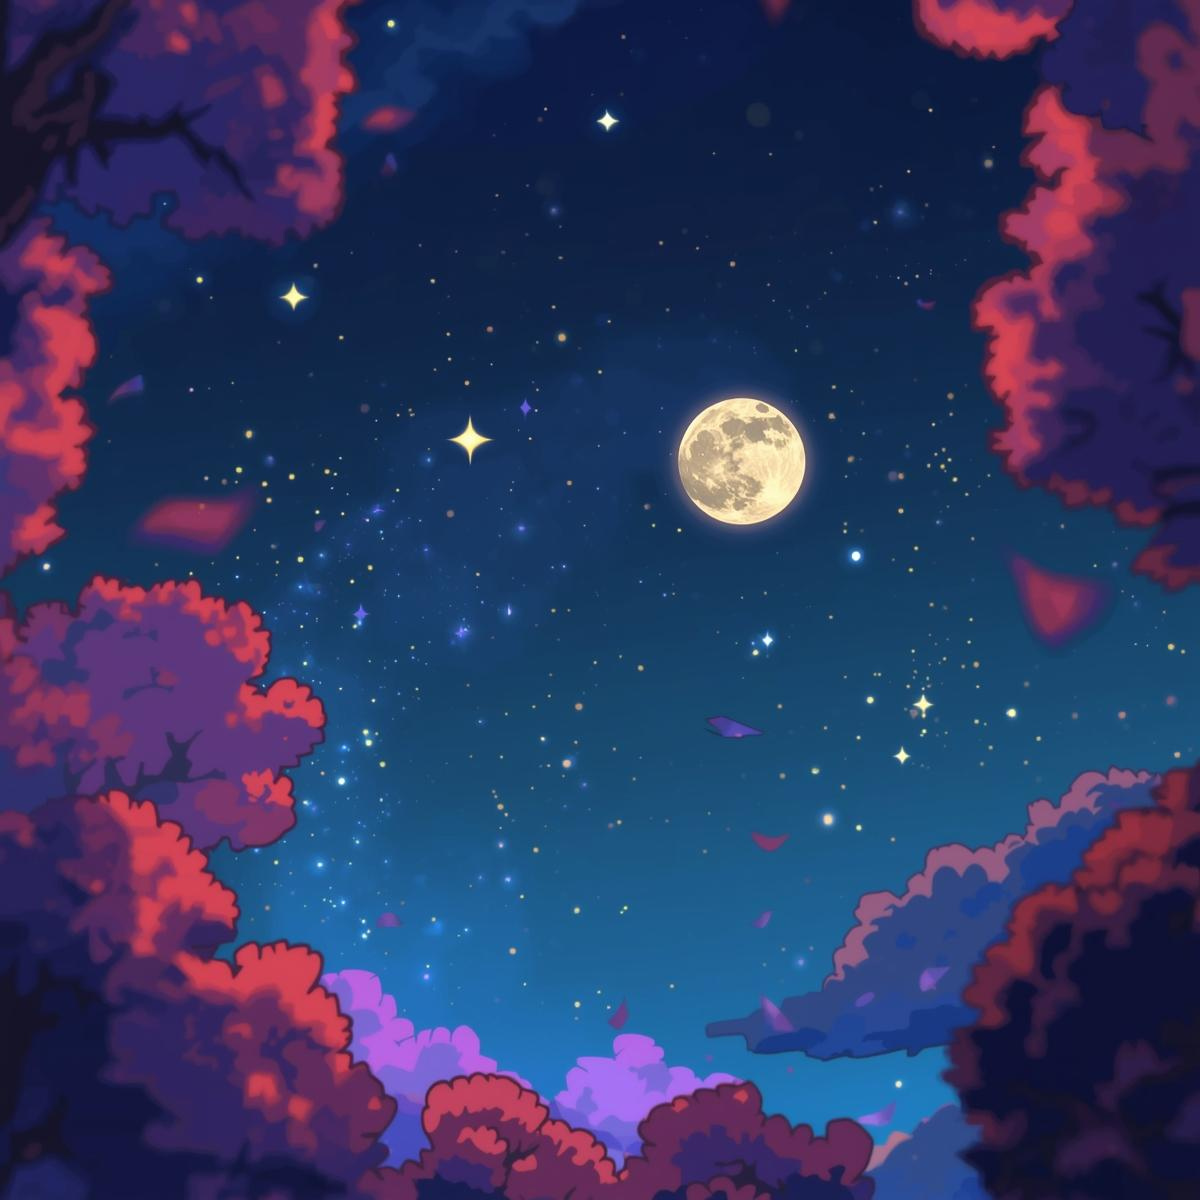
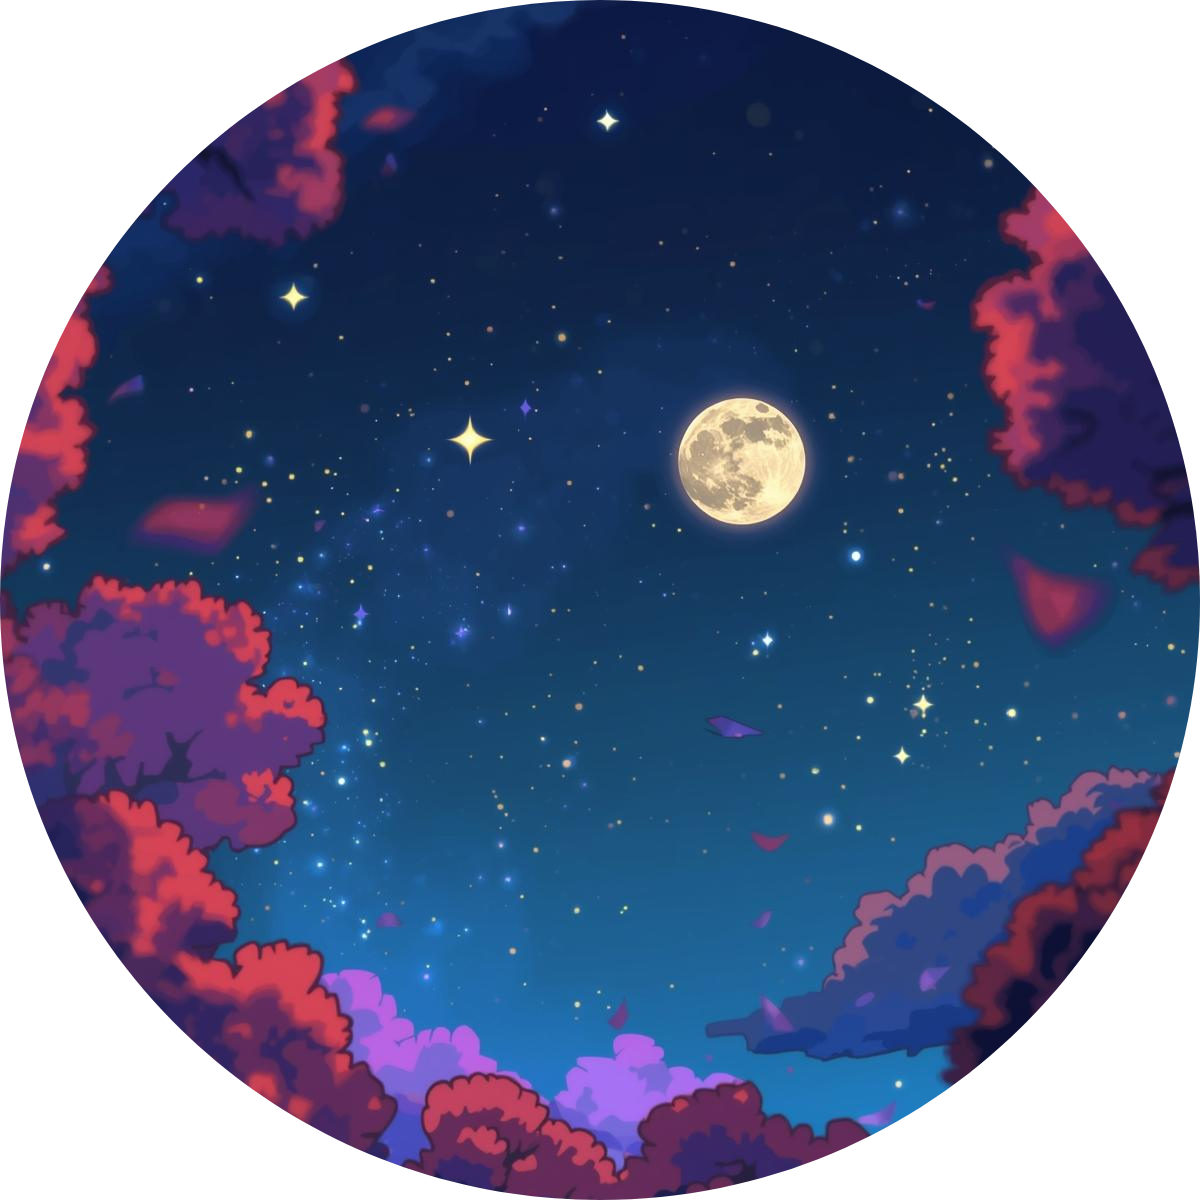
asama2_sıralamasoruları bitti

diff --git a/lib/SIRALAMA_SORULARI/Asama2/soru5.dart b/lib/SIRALAMA_SORULARI/Asama2/soru5.dart
@@ -2,26 +2,25 @@ import 'package:flutter/material.dart';
 import 'package:provider/provider.dart';
 import 'package:shared_preferences/shared_preferences.dart';
 import '../../providers/language_provider.dart';
-import 'soru2.dart';
 import 'package:dixlearning/screens/sorting_roadmap_screen.dart';
 
-class Asama2Soru1 extends StatefulWidget {
-  const Asama2Soru1({super.key});
+class Asama2Soru5 extends StatefulWidget {
+  const Asama2Soru5({super.key});
 
   @override
-  State<Asama2Soru1> createState() => _Asama2Soru1State();
+  State<Asama2Soru5> createState() => _Asama2Soru5State();
 }
 
-class _TimeStage {
+class _WindStage {
   final String label;
   final String assetPath;
-  _TimeStage(this.label, this.assetPath);
+  _WindStage(this.label, this.assetPath);
 }
 
-class _Asama2Soru1State extends State<Asama2Soru1>
+class _Asama2Soru5State extends State<Asama2Soru5>
     with TickerProviderStateMixin {
-  late List<_TimeStage> stages;
-  late List<_TimeStage> dragSources;
+  late List<_WindStage> stages;
+  late List<_WindStage> dragSources;
   bool showFeedback = false;
   bool isCorrect = false;
   late AnimationController _feedbackController;
@@ -30,15 +29,15 @@ class _Asama2Soru1State extends State<Asama2Soru1>
   void initState() {
     super.initState();
     stages = [
-      _TimeStage(
-        'Sabah',
-        'assets/SIRALAMA_RESIMLERI/Asama2/soru1/gun_dogumu.png',
+      _WindStage('Rüzgar', 'assets/SIRALAMA_RESIMLERI/Asama2/soru5/rüzgar.png'),
+      _WindStage(
+        'Uçan Şapka',
+        'assets/SIRALAMA_RESIMLERI/Asama2/soru5/ucan_sapka.png',
       ),
-      _TimeStage(
-        'Öğle',
-        'assets/SIRALAMA_RESIMLERI/Asama2/soru1/gunes_tepede.png',
+      _WindStage(
+        'Şapkayı Yakalama',
+        'assets/SIRALAMA_RESIMLERI/Asama2/soru5/sapka_yakalama.png',
       ),
-      _TimeStage('Akşam', 'assets/SIRALAMA_RESIMLERI/Asama2/soru1/aksam.png'),
     ];
     dragSources = List.from(stages)..shuffle();
     _feedbackController = AnimationController(
@@ -78,8 +77,11 @@ class _Asama2Soru1State extends State<Asama2Soru1>
 
       Future.delayed(const Duration(seconds: 2), () {
         if (mounted) {
-          Navigator.of(context).pushReplacement(
-            MaterialPageRoute(builder: (context) => const Asama2Soru2()),
+          Navigator.of(context).pushAndRemoveUntil(
+            MaterialPageRoute(
+              builder: (context) => const SortingRoadmapScreen(),
+            ),
+            (route) => false,
           );
         }
       });
@@ -99,10 +101,6 @@ class _Asama2Soru1State extends State<Asama2Soru1>
     final isEnglish = Provider.of<LanguageProvider>(context).isEnglish;
     final screenSize = MediaQuery.of(context).size;
     final screenWidth = screenSize.width;
-    final screenHeight = screenSize.height;
-    final imageSize = MediaQuery.of(context).size.width * 0.26;
-    final dropSize = screenWidth * 0.28;
-    final gap = screenWidth * 0.04;
 
     return WillPopScope(
       onWillPop: () async => false,
@@ -172,8 +170,8 @@ class _Asama2Soru1State extends State<Asama2Soru1>
                             padding: const EdgeInsets.only(bottom: 6.0),
                             child: Text(
                               isEnglish
-                                  ? 'Sort the times of day in the correct order.'
-                                  : 'Günün zamanlarını doğru sıraya koy.',
+                                  ? 'Sort the events when wind blows.'
+                                  : 'Rüzgar çıktığında olan olayları sırala.',
                               style: const TextStyle(
                                 fontSize: 20,
                                 fontWeight: FontWeight.bold,

diff --git a/lib/SIRALAMA_SORULARI/Asama2/soru3.dart b/lib/SIRALAMA_SORULARI/Asama2/soru3.dart
@@ -2,26 +2,26 @@ import 'package:flutter/material.dart';
 import 'package:provider/provider.dart';
 import 'package:shared_preferences/shared_preferences.dart';
 import '../../providers/language_provider.dart';
-import 'soru2.dart';
+import 'soru4.dart';
 import 'package:dixlearning/screens/sorting_roadmap_screen.dart';
 
-class Asama2Soru1 extends StatefulWidget {
-  const Asama2Soru1({super.key});
+class Asama2Soru3 extends StatefulWidget {
+  const Asama2Soru3({super.key});
 
   @override
-  State<Asama2Soru1> createState() => _Asama2Soru1State();
+  State<Asama2Soru3> createState() => _Asama2Soru3State();
 }
 
-class _TimeStage {
+class _DistanceStage {
   final String label;
   final String assetPath;
-  _TimeStage(this.label, this.assetPath);
+  _DistanceStage(this.label, this.assetPath);
 }
 
-class _Asama2Soru1State extends State<Asama2Soru1>
+class _Asama2Soru3State extends State<Asama2Soru3>
     with TickerProviderStateMixin {
-  late List<_TimeStage> stages;
-  late List<_TimeStage> dragSources;
+  late List<_DistanceStage> stages;
+  late List<_DistanceStage> dragSources;
   bool showFeedback = false;
   bool isCorrect = false;
   late AnimationController _feedbackController;
@@ -30,15 +30,18 @@ class _Asama2Soru1State extends State<Asama2Soru1>
   void initState() {
     super.initState();
     stages = [
-      _TimeStage(
-        'Sabah',
-        'assets/SIRALAMA_RESIMLERI/Asama2/soru1/gun_dogumu.png',
+      _DistanceStage(
+        'Eve Yakın',
+        'assets/SIRALAMA_RESIMLERI/Asama2/soru3/eve_yakın.png',
       ),
-      _TimeStage(
-        'Öğle',
-        'assets/SIRALAMA_RESIMLERI/Asama2/soru1/gunes_tepede.png',
+      _DistanceStage(
+        'Evden Uzak',
+        'assets/SIRALAMA_RESIMLERI/Asama2/soru3/evden_uzak.png',
       ),
-      _TimeStage('Akşam', 'assets/SIRALAMA_RESIMLERI/Asama2/soru1/aksam.png'),
+      _DistanceStage(
+        'Evden En Uzak',
+        'assets/SIRALAMA_RESIMLERI/Asama2/soru3/evden_en_uzak.png',
+      ),
     ];
     dragSources = List.from(stages)..shuffle();
     _feedbackController = AnimationController(
@@ -79,7 +82,7 @@ class _Asama2Soru1State extends State<Asama2Soru1>
       Future.delayed(const Duration(seconds: 2), () {
         if (mounted) {
           Navigator.of(context).pushReplacement(
-            MaterialPageRoute(builder: (context) => const Asama2Soru2()),
+            MaterialPageRoute(builder: (context) => const Asama2Soru4()),
           );
         }
       });
@@ -99,10 +102,6 @@ class _Asama2Soru1State extends State<Asama2Soru1>
     final isEnglish = Provider.of<LanguageProvider>(context).isEnglish;
     final screenSize = MediaQuery.of(context).size;
     final screenWidth = screenSize.width;
-    final screenHeight = screenSize.height;
-    final imageSize = MediaQuery.of(context).size.width * 0.26;
-    final dropSize = screenWidth * 0.28;
-    final gap = screenWidth * 0.04;
 
     return WillPopScope(
       onWillPop: () async => false,
@@ -172,8 +171,8 @@ class _Asama2Soru1State extends State<Asama2Soru1>
                             padding: const EdgeInsets.only(bottom: 6.0),
                             child: Text(
                               isEnglish
-                                  ? 'Sort the times of day in the correct order.'
-                                  : 'Günün zamanlarını doğru sıraya koy.',
+                                  ? 'Sort the distances from near to far.'
+                                  : 'Çocuğun eve olan mesafesini yakından uzağa doğru sırala.',
                               style: const TextStyle(
                                 fontSize: 20,
                                 fontWeight: FontWeight.bold,

diff --git a/lib/SIRALAMA_SORULARI/Asama2/soru4.dart b/lib/SIRALAMA_SORULARI/Asama2/soru4.dart
@@ -2,26 +2,26 @@ import 'package:flutter/material.dart';
 import 'package:provider/provider.dart';
 import 'package:shared_preferences/shared_preferences.dart';
 import '../../providers/language_provider.dart';
-import 'soru2.dart';
+import 'soru5.dart'; // Added this import
 import 'package:dixlearning/screens/sorting_roadmap_screen.dart';
 
-class Asama2Soru1 extends StatefulWidget {
-  const Asama2Soru1({super.key});
+class Asama2Soru4 extends StatefulWidget {
+  const Asama2Soru4({super.key});
 
   @override
-  State<Asama2Soru1> createState() => _Asama2Soru1State();
+  State<Asama2Soru4> createState() => _Asama2Soru4State();
 }
 
-class _TimeStage {
+class _PlaneStage {
   final String label;
   final String assetPath;
-  _TimeStage(this.label, this.assetPath);
+  _PlaneStage(this.label, this.assetPath);
 }
 
-class _Asama2Soru1State extends State<Asama2Soru1>
+class _Asama2Soru4State extends State<Asama2Soru4>
     with TickerProviderStateMixin {
-  late List<_TimeStage> stages;
-  late List<_TimeStage> dragSources;
+  late List<_PlaneStage> stages;
+  late List<_PlaneStage> dragSources;
   bool showFeedback = false;
   bool isCorrect = false;
   late AnimationController _feedbackController;
@@ -30,15 +30,18 @@ class _Asama2Soru1State extends State<Asama2Soru1>
   void initState() {
     super.initState();
     stages = [
-      _TimeStage(
-        'Sabah',
-        'assets/SIRALAMA_RESIMLERI/Asama2/soru1/gun_dogumu.png',
+      _PlaneStage(
+        'Pistte',
+        'assets/SIRALAMA_RESIMLERI/Asama2/soru4/ucak_pistte.png',
       ),
-      _TimeStage(
-        'Öğle',
-        'assets/SIRALAMA_RESIMLERI/Asama2/soru1/gunes_tepede.png',
+      _PlaneStage(
+        'Kalkışta',
+        'assets/SIRALAMA_RESIMLERI/Asama2/soru4/ucak_kalkısta.png',
       ),
-      _TimeStage('Akşam', 'assets/SIRALAMA_RESIMLERI/Asama2/soru1/aksam.png'),
+      _PlaneStage(
+        'Uçan Uçak',
+        'assets/SIRALAMA_RESIMLERI/Asama2/soru4/ucan_ucak.png',
+      ),
     ];
     dragSources = List.from(stages)..shuffle();
     _feedbackController = AnimationController(
@@ -79,7 +82,7 @@ class _Asama2Soru1State extends State<Asama2Soru1>
       Future.delayed(const Duration(seconds: 2), () {
         if (mounted) {
           Navigator.of(context).pushReplacement(
-            MaterialPageRoute(builder: (context) => const Asama2Soru2()),
+            MaterialPageRoute(builder: (context) => const Asama2Soru5()),
           );
         }
       });
@@ -99,10 +102,6 @@ class _Asama2Soru1State extends State<Asama2Soru1>
     final isEnglish = Provider.of<LanguageProvider>(context).isEnglish;
     final screenSize = MediaQuery.of(context).size;
     final screenWidth = screenSize.width;
-    final screenHeight = screenSize.height;
-    final imageSize = MediaQuery.of(context).size.width * 0.26;
-    final dropSize = screenWidth * 0.28;
-    final gap = screenWidth * 0.04;
 
     return WillPopScope(
       onWillPop: () async => false,
@@ -172,8 +171,8 @@ class _Asama2Soru1State extends State<Asama2Soru1>
                             padding: const EdgeInsets.only(bottom: 6.0),
                             child: Text(
                               isEnglish
-                                  ? 'Sort the times of day in the correct order.'
-                                  : 'Günün zamanlarını doğru sıraya koy.',
+                                  ? 'Sort the airplane takeoff sequence.'
+                                  : 'Uçağın kalkış sırasını sırala.',
                               style: const TextStyle(
                                 fontSize: 20,
                                 fontWeight: FontWeight.bold,

diff --git a/lib/SIRALAMA_SORULARI/Asama2/soru2.dart b/lib/SIRALAMA_SORULARI/Asama2/soru2.dart
@@ -2,26 +2,26 @@ import 'package:flutter/material.dart';
 import 'package:provider/provider.dart';
 import 'package:shared_preferences/shared_preferences.dart';
 import '../../providers/language_provider.dart';
-import 'soru2.dart';
+import 'soru3.dart';
 import 'package:dixlearning/screens/sorting_roadmap_screen.dart';
 
-class Asama2Soru1 extends StatefulWidget {
-  const Asama2Soru1({super.key});
+class Asama2Soru2 extends StatefulWidget {
+  const Asama2Soru2({super.key});
 
   @override
-  State<Asama2Soru1> createState() => _Asama2Soru1State();
+  State<Asama2Soru2> createState() => _Asama2Soru2State();
 }
 
-class _TimeStage {
+class _FoodStage {
   final String label;
   final String assetPath;
-  _TimeStage(this.label, this.assetPath);
+  _FoodStage(this.label, this.assetPath);
 }
 
-class _Asama2Soru1State extends State<Asama2Soru1>
+class _Asama2Soru2State extends State<Asama2Soru2>
     with TickerProviderStateMixin {
-  late List<_TimeStage> stages;
-  late List<_TimeStage> dragSources;
+  late List<_FoodStage> stages;
+  late List<_FoodStage> dragSources;
   bool showFeedback = false;
   bool isCorrect = false;
   late AnimationController _feedbackController;
@@ -30,15 +30,15 @@ class _Asama2Soru1State extends State<Asama2Soru1>
   void initState() {
     super.initState();
     stages = [
-      _TimeStage(
-        'Sabah',
-        'assets/SIRALAMA_RESIMLERI/Asama2/soru1/gun_dogumu.png',
+      _FoodStage('Çorba', 'assets/SIRALAMA_RESIMLERI/Asama2/soru2/corba.png'),
+      _FoodStage(
+        'Kurabiye',
+        'assets/SIRALAMA_RESIMLERI/Asama2/soru2/kurabiye.png',
       ),
-      _TimeStage(
-        'Öğle',
-        'assets/SIRALAMA_RESIMLERI/Asama2/soru1/gunes_tepede.png',
+      _FoodStage(
+        'Dondurma',
+        'assets/SIRALAMA_RESIMLERI/Asama2/soru2/dondurma.png',
       ),
-      _TimeStage('Akşam', 'assets/SIRALAMA_RESIMLERI/Asama2/soru1/aksam.png'),
     ];
     dragSources = List.from(stages)..shuffle();
     _feedbackController = AnimationController(
@@ -79,7 +79,7 @@ class _Asama2Soru1State extends State<Asama2Soru1>
       Future.delayed(const Duration(seconds: 2), () {
         if (mounted) {
           Navigator.of(context).pushReplacement(
-            MaterialPageRoute(builder: (context) => const Asama2Soru2()),
+            MaterialPageRoute(builder: (context) => const Asama2Soru3()),
           );
         }
       });
@@ -99,10 +99,6 @@ class _Asama2Soru1State extends State<Asama2Soru1>
     final isEnglish = Provider.of<LanguageProvider>(context).isEnglish;
     final screenSize = MediaQuery.of(context).size;
     final screenWidth = screenSize.width;
-    final screenHeight = screenSize.height;
-    final imageSize = MediaQuery.of(context).size.width * 0.26;
-    final dropSize = screenWidth * 0.28;
-    final gap = screenWidth * 0.04;
 
     return WillPopScope(
       onWillPop: () async => false,
@@ -172,8 +168,8 @@ class _Asama2Soru1State extends State<Asama2Soru1>
                             padding: const EdgeInsets.only(bottom: 6.0),
                             child: Text(
                               isEnglish
-                                  ? 'Sort the times of day in the correct order.'
-                                  : 'Günün zamanlarını doğru sıraya koy.',
+                                  ? 'Sort the foods from hot to cold.'
+                                  : 'Yiyecekleri sıcaktan soğuğa doğru sırala.',
                               style: const TextStyle(
                                 fontSize: 20,
                                 fontWeight: FontWeight.bold,

diff --git a/lib/screens/sorting_roadmap_screen.dart b/lib/screens/sorting_roadmap_screen.dart
@@ -6,6 +6,7 @@ import 'package:shared_preferences/shared_preferences.dart';
 import '../providers/language_provider.dart';
 import '../../SIRALAMA_SORULARI/Asama3/soru1.dart';
 import '../../SIRALAMA_SORULARI/Asama2/soru1.dart';
+import '../../SIRALAMA_SORULARI/Asama2/soru2.dart';
 import 'home_screen.dart';
 
 // Gezegen ve yol renklerini kontrol etmek için yeni sabitler
